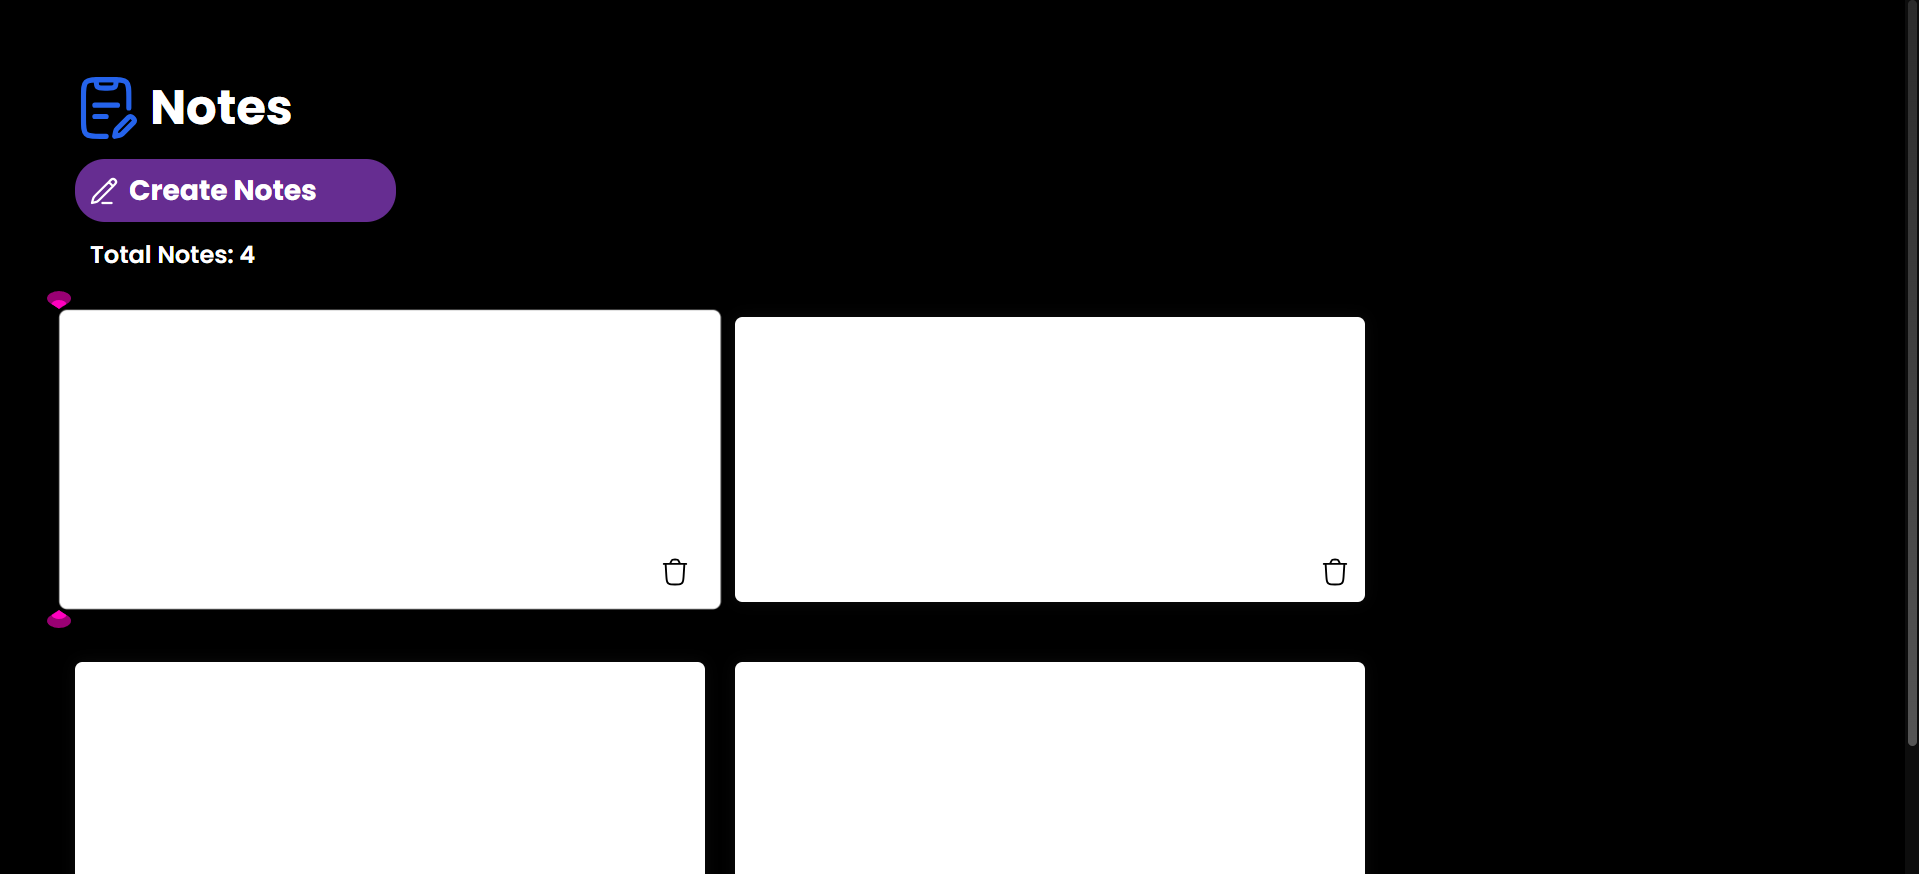
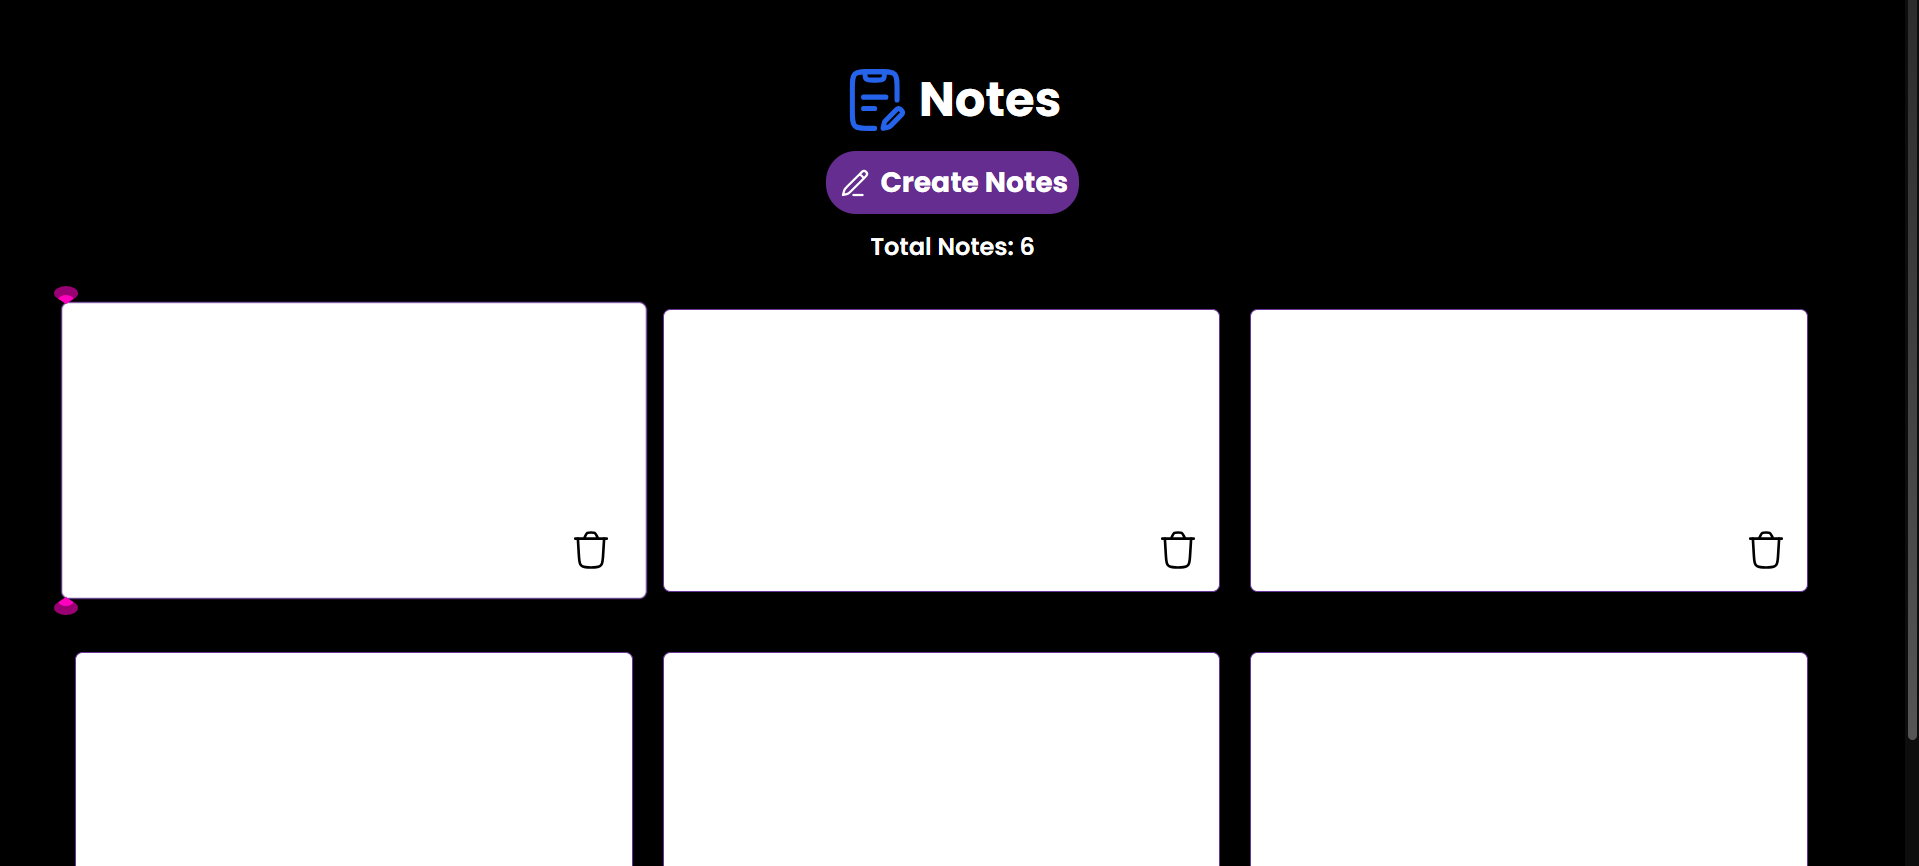
Update UI image and styling for notes

diff --git a/style.css b/style.css
@@ -41,19 +41,24 @@ body {
   filter: invert(1);
 }
 
+.media{
+    display: flex;
+    flex-direction: column;
+    align-items: center;
+}
+
 ul li p {
-  background-color: white;
-  color: black;
-  min-height: 150px;
-  width: min(400px, 90vw);
-  padding: 10px;
-  margin-top: 20px;
-  border-radius: 5px;
-  padding-bottom: 30px;
-  border: none;
-  outline: none;
-  font-weight: 500;
-  box-shadow: 0 0 10px rgba(255,255,255,0.05);
+    background-color: white;
+    color: black;
+    min-height: 30vh;
+    min-width: 28vw;
+    padding: 6px;
+    margin-top: 20px;
+    border-radius: 5px;
+    border: none;
+    outline: none;
+    font-weight: 500;
+    border: 1px solid rebeccapurple;
 }
 
 ul li p {
@@ -71,48 +76,37 @@ ul li p:focus {
   flex-wrap: wrap;
 }
 
-.box ul li img {
-  position: absolute;
-  right: 10px;
-  bottom: 10px;
-  width: 20px;
-  height: 20px;
-  cursor: pointer;
-  z-index: 2;
+.box ul li img{
+    position: absolute;
+    right: 10px;
+    bottom: 10px;
+    width: 28px;
+    padding: 4px;
+    cursor: pointer;
+}
+
+.box ul li .deletebtn:hover {
+  color: #ff4d4d;
+  background: rgba(255, 77, 77, 0.1);
+}
+
+.box ul li .deletebtn svg {
+  width: 100%;
+  height: 100%;
 }
 
 .box ul li {
   list-style: none;
   position: relative;
   width: fit-content;
+  min-height: 180px; 
 }
 
 #m-1 {
   padding: 10px;
 }
 
-@media screen and (max-width: 1024px) {
-  #second {
-    width: 90%;
-  }
-
-  ul li p {
-    max-width: 80%;
-  }
-
-  .media {
-    display: flex;
-    flex-direction: column;
-    align-items: center;
-  }
-
-  .box ul li img {
-    left: 290px;
-  }
-}
-
 /* Dark Slidebar */
-
 ::-webkit-scrollbar {
   width: 10px;
 }
